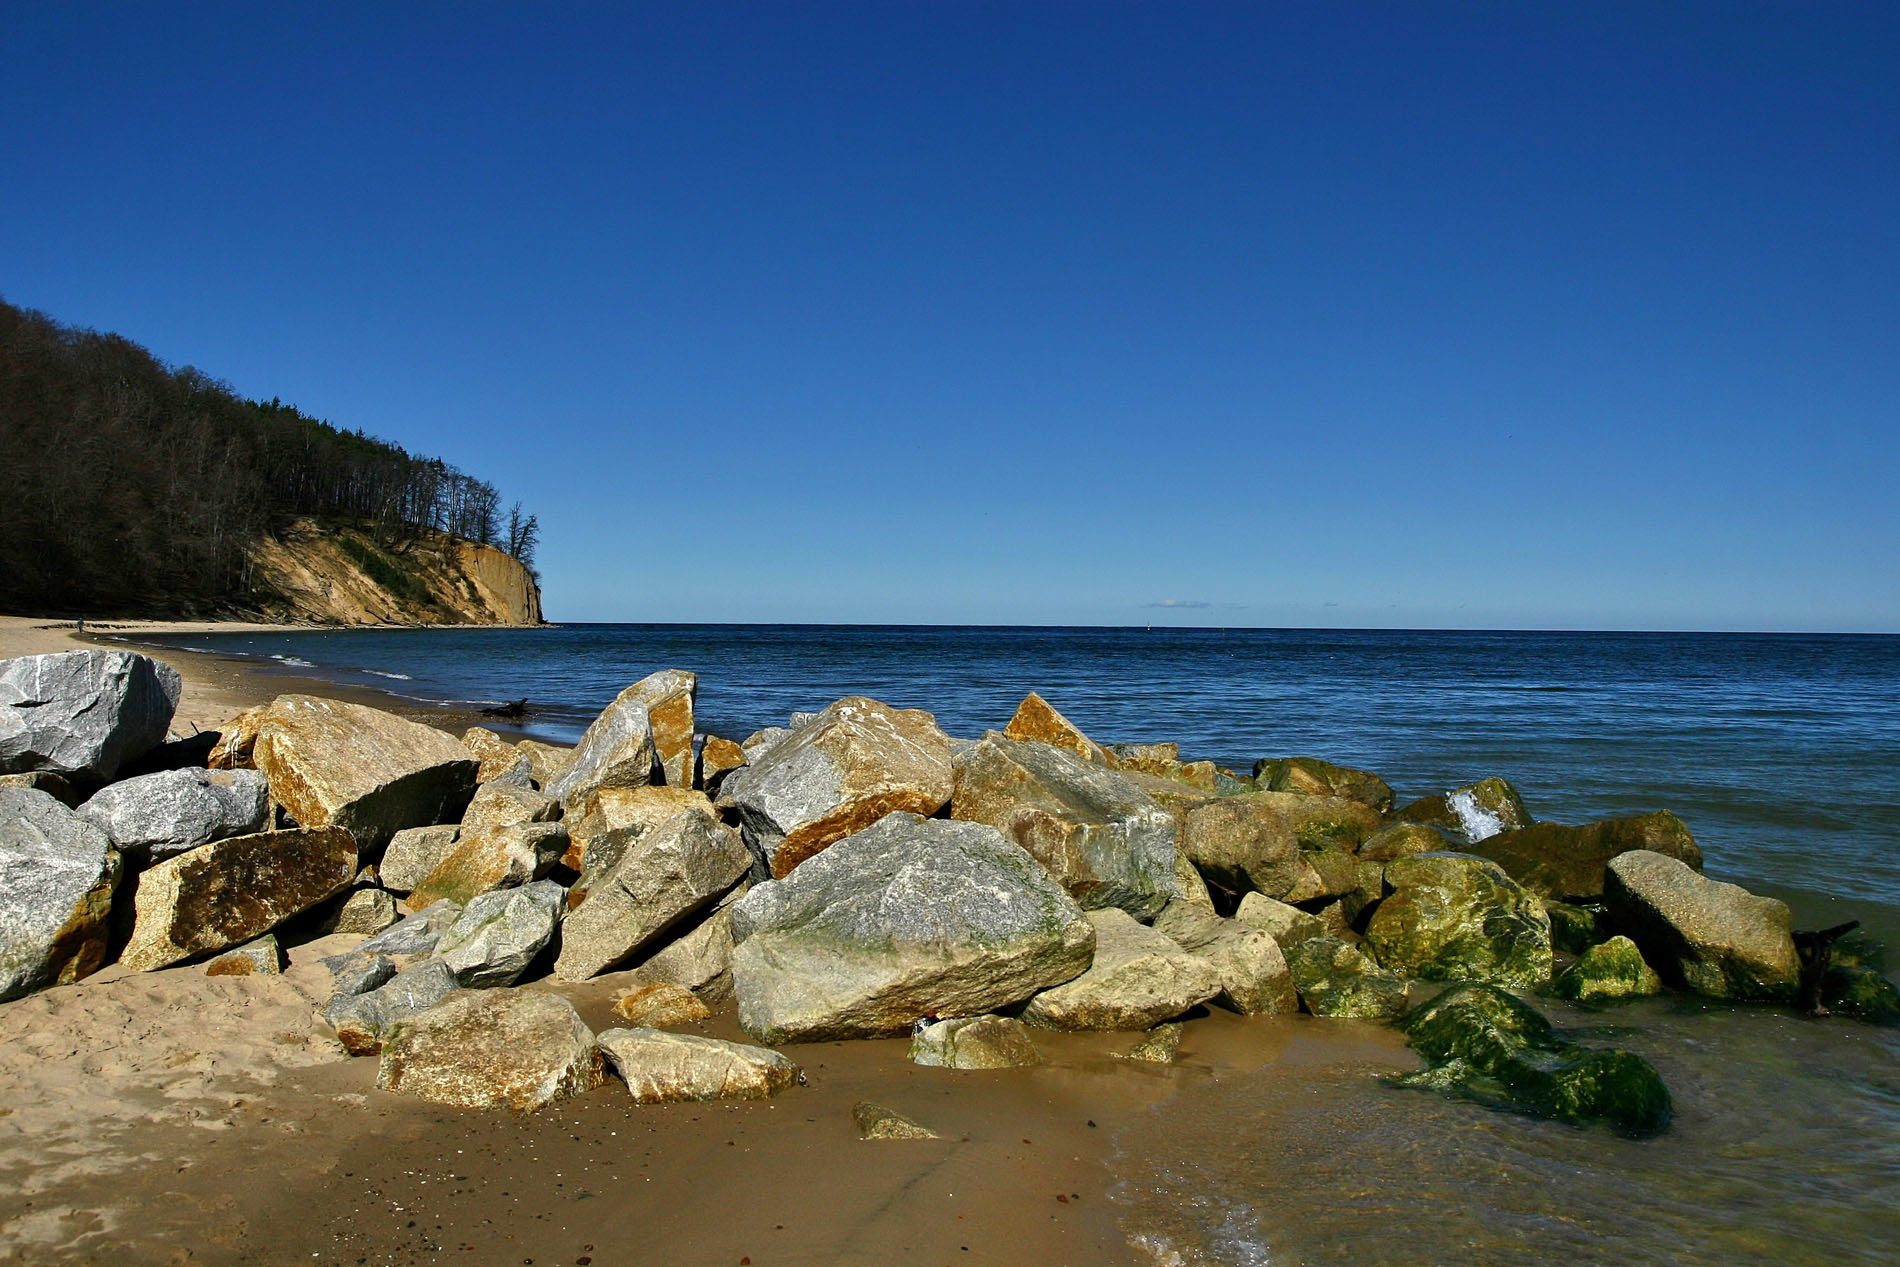
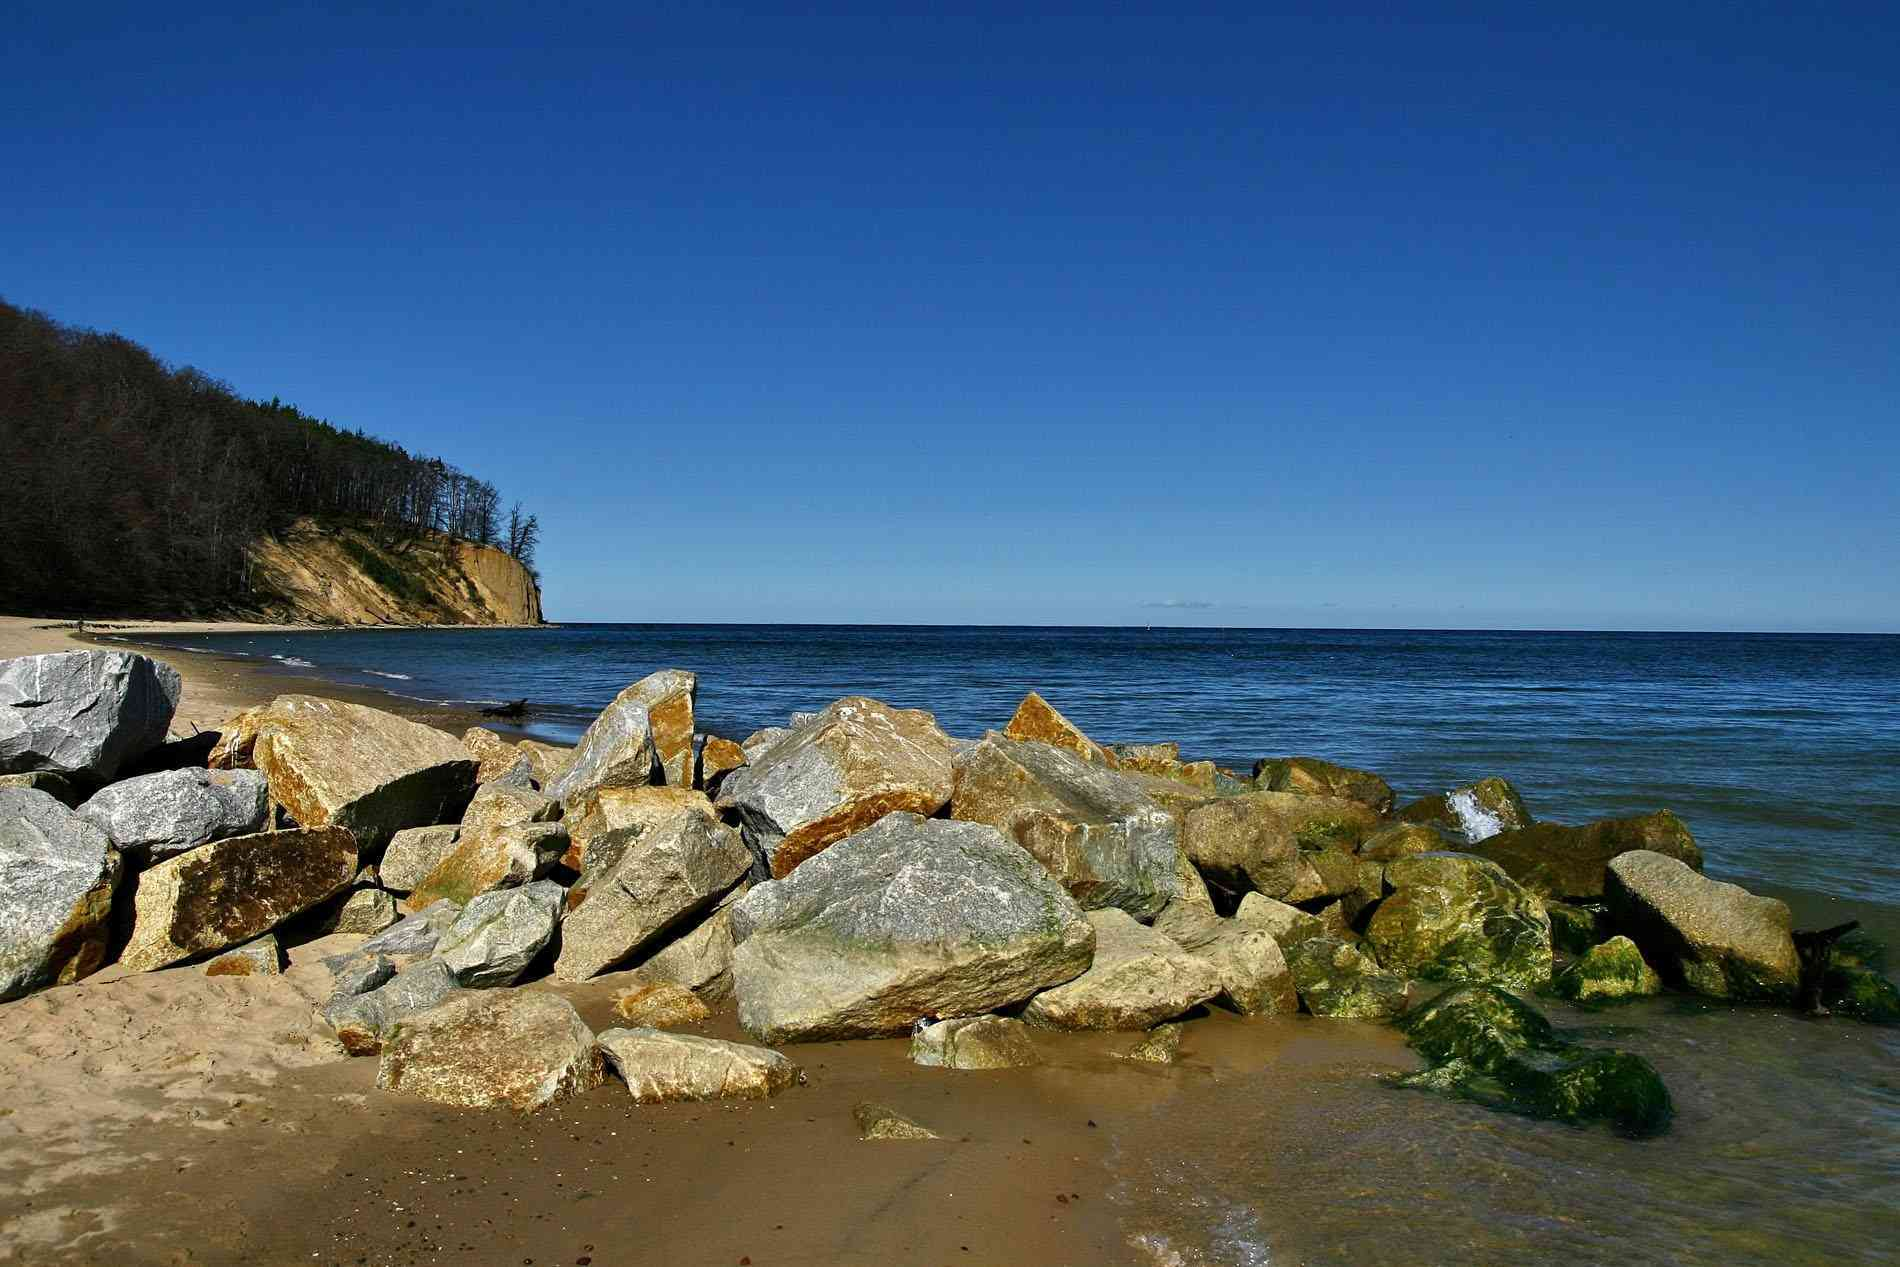
压缩图片

diff --git a/_includes/books.html b/_includes/books.html
@@ -1,0 +1,52 @@
+<section id="books">
+<!-- Page Content -->
+{% for post in site.categories.book offset:3 limit:3 %}
+  {% capture thecycle %}{% cycle 'odd', 'even' %}{% endcapture %}
+    {% if thecycle == 'odd' %}
+    <div class="content-section-a">
+
+        <div class="container">
+
+            <div class="row">
+                <div class="col-lg-5 col-sm-6">
+                    <hr class="section-heading-spacer">
+                    <div class="clearfix"></div>
+                    <h2 class="section-heading">{{ post.title }}</h2>
+                    <div class="lead">{{ post.excerpt }}</div>
+                </div>
+                <div class="col-lg-5 col-lg-offset-2 col-sm-6">
+                    <img class="img-responsive" src="assets/read/{{ post.img }}" alt="">
+                </div>
+            </div>
+
+        </div>
+        <!-- /.container -->
+
+    </div>
+    <!-- /.content-section-a -->
+    {% else %}
+
+    <div class="content-section-b">
+
+        <div class="container">
+
+            <div class="row">
+                <div class="col-lg-5 col-lg-offset-1 col-sm-push-6  col-sm-6">
+                    <hr class="section-heading-spacer">
+                    <div class="clearfix"></div>
+                    <h2 class="section-heading">{{ post.title }}</h2>
+                    <div class="lead">{{ post.excerpt }}</div>
+                </div>
+                <div class="col-lg-5 col-sm-pull-6  col-sm-6">
+                  <img class="img-responsive" src="assets/read/{{ post.img }}" alt="">
+                </div>
+            </div>
+
+        </div>
+        <!-- /.container -->
+
+    </div>
+    <!-- /.content-section-b -->
+    {% endif %}
+{% endfor %}
+</section>

diff --git a/_includes/blogs.html b/_includes/blogs.html
@@ -1,6 +1,6 @@
-<section id="read">
+<section id="blogs">
 <!-- Page Content -->
-{% for post in site.posts reversed %}
+{% for post in site.categories.blog offset:3 limit:3 %}
   {% capture thecycle %}{% cycle 'odd', 'even' %}{% endcapture %}
     {% if thecycle == 'odd' %}
     <div class="content-section-a">
@@ -12,7 +12,7 @@
                     <hr class="section-heading-spacer">
                     <div class="clearfix"></div>
                     <h2 class="section-heading">{{ post.title }}</h2>
-                    <div class="lead">{{ post.content }}</div>
+                    <div class="lead">{{ post.excerpt }}</div>
                 </div>
                 <div class="col-lg-5 col-lg-offset-2 col-sm-6">
                     <img class="img-responsive" src="assets/read/{{ post.img }}" alt="">
@@ -35,7 +35,7 @@
                     <hr class="section-heading-spacer">
                     <div class="clearfix"></div>
                     <h2 class="section-heading">{{ post.title }}</h2>
-                    <div class="lead">{{ post.content }}</div>
+                    <div class="lead">{{ post.excerpt }}</div>
                 </div>
                 <div class="col-lg-5 col-sm-pull-6  col-sm-6">
                   <img class="img-responsive" src="assets/read/{{ post.img }}" alt="">

diff --git a/_includes/books的副本.html b/_includes/books的副本.html
@@ -1,6 +1,6 @@
-<section id="blog">
+<section id="blogs">
 <!-- Page Content -->
-{% for post in site.posts reversed %}
+{% for post in site.categories.blog  limit:3 %}
   {% capture thecycle %}{% cycle 'odd', 'even' %}{% endcapture %}
     {% if thecycle == 'odd' %}
     <div class="content-section-a">
@@ -12,7 +12,7 @@
                     <hr class="section-heading-spacer">
                     <div class="clearfix"></div>
                     <h2 class="section-heading">{{ post.title }}</h2>
-                    <div class="lead">{{ post.content }}</div>
+                    <div class="lead">{{ post.excerpt }}</div>
                 </div>
                 <div class="col-lg-5 col-lg-offset-2 col-sm-6">
                     <img class="img-responsive" src="assets/read/{{ post.img }}" alt="">
@@ -35,7 +35,7 @@
                     <hr class="section-heading-spacer">
                     <div class="clearfix"></div>
                     <h2 class="section-heading">{{ post.title }}</h2>
-                    <div class="lead">{{ post.content }}</div>
+                    <div class="lead">{{ post.excerpt }}</div>
                 </div>
                 <div class="col-lg-5 col-sm-pull-6  col-sm-6">
                   <img class="img-responsive" src="assets/read/{{ post.img }}" alt="">

diff --git a/404.html b/404.html
@@ -1,8 +1,9 @@
----
-layout: default
----
-
-<style type="text/css" media="screen">
+<!DOCTYPE html>
+<html>
+<head>
+  <meta charset="utf-8">
+  <title>404</title>
+  <style type="text/css" media="screen">
   .container {
     margin: 10px auto;
     max-width: 600px;
@@ -15,10 +16,16 @@ layout: default
     letter-spacing: -1px;
   }
 </style>
+</head>
+<body>
 
 <div class="container">
   <h1>404</h1>
 
   <p><strong>Page not found :(</strong></p>
-  <p>The requested page could not be found.</p>
+  <p>大师兄，师傅被妖怪抓走了！！！</p>
+  <a href="">回首页看看其他的吧</a>
 </div>
+
+</body>
+</html>

diff --git a/_includes/header.html b/_includes/header.html
@@ -15,10 +15,10 @@
         <div class="collapse navbar-collapse" id="bs-example-navbar-collapse-1">
             <ul class="nav navbar-nav navbar-right">            
                 <li>
-                    <a class="page-scroll" href="#read">读书</a>
+                    <a class="page-scroll" href="#books">读书</a>
                 </li>
                 <li>
-                    <a class="page-scroll" href="#blog">博文</a>
+                    <a class="page-scroll" href="#blogs">博文</a>
                 </li>
                 <li>
                     <a class="page-scroll" href="#about">关于</a>

diff --git a/_includes/footer.html b/_includes/footer.html
@@ -9,11 +9,11 @@
                     </li>
                     <li class="footer-menu-divider">&sdot;</li>
                     <li>
-                        <a href="#read">读书</a>
+                        <a href="#books">读书</a>
                     </li>
                     <li class="footer-menu-divider">&sdot;</li>
                     <li>
-                        <a href="#blog">博文</a>
+                        <a href="#blogs">博文</a>
                     </li>
                     <li class="footer-menu-divider">&sdot;</li>
                     <li>

diff --git a/about.html b/about.html
@@ -6,9 +6,6 @@
               <h2>关于</h2>
               <br/>
                 <p>凡事都有可能，永远别说永远！</p>
-                <p></p>
-                <p></p>
-                <p></p>
                 <br/>
               </div>
         </div>

diff --git a/_layouts/default.html b/_layouts/default.html
@@ -4,8 +4,8 @@
 
 	<body>
 		{% include header.html %}
-		{% include read.html %}
-		{% include blog.html %}
+		{% include books.html %}
+		{% include blogs.html %}
 		{% include footer.html %}
 		{% include js.html %}
 	</body>

diff --git a/index.md b/index.md
@@ -3,5 +3,5 @@ layout: default
 title: 今天，你读书了吗？
 subTitle: 凡事都有可能，永远别说永远
 img: ipad.png
-category: Services
+category: home
 ---
